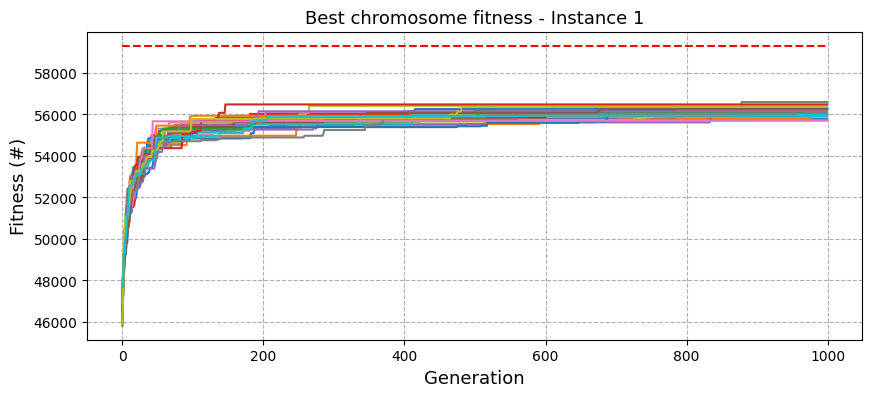
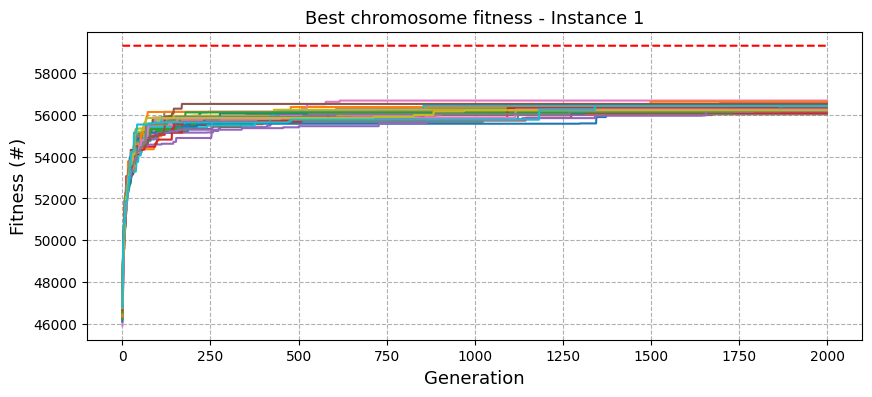
new plots and solutions

diff --git a/best_chromo_items.py b/best_chromo_items.py
@@ -1,12 +1,15 @@
 import json
 
 F = {}
-F[1] = {'id': '0010010000101110000000100010001101001000000100000010100110010000000010110001001001001000100100101000000000000000000111111000011100001100000100110010010000010000010011000010000010000100110100100100010001010000101010010100110000000001001100000000100001', 'fitness': 55691}
-F[2] = {'id': '0010010000101110000000100010001101001000000100000010100110010000000010110001001001001000100100101000000000000000000111111000011100001100000100110010010000010000010011000010000010000100110100100100010001010000101010010100110000000001001100000000100001', 'fitness': 55691}
-F[3] = {'id': '0010010000101110000000100010001101001000000100000010100110010000000010110001001001001000100100101000000000000000000111111000011100001100000100110010010000010000010011000010000010000100110100100100010001010000101010010100110000000001001100000000100001', 'fitness': 55691}
-F[4] = {'id': '0010010000101110000000100010001101001000000100000010100110010000000010110001001001001000100100101000000000000000000111111000011100001100000100110010010000010000010011000010000010000100110100100100010001010000101010010100110000000001001100000000100001', 'fitness': 55691}
-F[5] = {'id': '0010010000101110000000100010001101001000000100000010100110010000000010110001001001001000100100101000000000000000000111111000011100001100000100110010010000010000010011000010000010000100110100100100010001010000101010010100110000000001001100000000100001', 'fitness': 55691}
-F[6] = {'id': '0010010000101110000000100010001101001000000100000010100110010000000010110001001001001000100100101000000000000000000111111000011100001100000100110010010000010000010011000010000010000100110100100100010001010000101010010100110000000001001100000000100001', 'fitness': 55691}
+F[1] = {'id': '0100000100000100100101010110000000000010000000100100101010100000000011000100100000011100100000100000', 'fitness': 23898}
+F[2] = {'id': '0010100011000000101000010100010000101000110000000010000110001100010100101101001000001100011010100101010000001000000000100010000101100100100010100000010000011000011000001000100010000011000101100000010001011011001010000100000010001000001100010001000001', 'fitness': 56686}
+F[3] = {'id': '11001000100100000000100100001100000000100100010000000000000101110000001100111001110101001000000010010010001010000100010001101011100010001001000000000000100000010000000010001100011010010001000010000100110101100001110100000001000000100010011001110000000100100110001010000000000001001000010100000001000110100010000010110100000100100000100001000101100011011000010000000000000000001101111000100001011001000100000000010101010000000000010110101001011000000001000100000110000000111110111110010000001001011001', 'fitness': 115960}
+F[4] = {'id': '1111010001000011000000000000000000000000100000000001000010000010001011000000010001100010000000110010', 'fitness': 22366}
+F[5] = {'id': '0010000000011011000000110110000100000000010011001011000111000000000001100100100001000000000001100000010000100100010011000000001000000000000000001010000100001001011110000001010101010000000001000010000001000010011001000000010101010000000110000111000010', 'fitness': 56758}
+F[6] = {'id': '10100001110100100100000000100111000000110001100000010000000000000000001000000011010100100001000001001001100000000000001000010010100100001000000000001000001011110011000011000111010101000000001101010000001000000101000110001000000000011100001110011010000000000000000100000100011100101000100100000001000000000001001100001100000001110010110110000000000010001000100001000000001100000010100010000000100011011001000100010010100000000000001000000001000010000000000011000111001001010011001101000010000100110101', 'fitness': 112603}
+F[7] = {'id': '0000000000001010000000000010000000100100010101000001001100100001010101001001000000010000110000000010', 'fitness': 20602}
+F[8] = {'id': '0000010100000000000000010011101010000001000001001000010001000000000000011000110100000000000110000000001101100001110000010000001001001001000000100000000000110100100000011000100000000000011000000100010001000001000100001000101000000011010010000000000101', 'fitness': 53059}
+F[9] = {'id': '01000001000010110001001100000011101010010100011000010000000001001001010100000001000100000000000100000001000000001101000001000000011100100010001000000000010000000001100000100111000000000100000010110001000000100010111000110100001010010100001000000001011100100000010100001010100000000000000100010010000010000000100110100000000000000011000000010011000010101000000001000000000000000000010000001110000000010010111010010000100000111100011001000100010000100000101000000001100001110000100010000010000100011001', 'fitness': 107841}
 
 choices = {}
 

diff --git a/average_fitness_plot.py b/average_fitness_plot.py
@@ -6,7 +6,7 @@ plt.rcParams["figure.figsize"] = (10, 4)
 
 average_instance = []
 
-for i in range(1, 7):
+for i in range(1, 10):
     average = 0
     for j in range(0, 30):
         json_file = open("file_{}/fistness_history_test_{}.json".format(i, j))
@@ -22,10 +22,10 @@ print(average_instance)
 
 # plt.plot(average_instance)
 
-# optimal = [24381, 59312, 120130, 23064, 59187, 117726]
+# optimal = [24381, 59312, 120130, 23064, 59187, 117726, 21946, 56693, 115868]
 
-X = ['File 1', 'File 2', 'File 3', 'File 4', 'File 5', "File 6", "File 7"]
-Y_optimal = [24381, 59312, 120130, 23064, 59187, 117726, 21946]
+X = ['File 1', 'File 2', 'File 3', 'File 4', 'File 5', "File 6", "File 7", "File 8", "File 9"]
+Y_optimal = [24381, 59312, 120130, 23064, 59187, 117726, 21946, 56693, 115868]
 Y_GA = average_instance
 
 X_axis = np.arange(len(X))
@@ -35,8 +35,8 @@ plt.bar(X_axis + 0.2, Y_optimal, 0.4, label='Optimal value', color='firebrick')
 
 plt.xticks(X_axis, X)
 plt.xlabel("Instances", fontsize=13)
-plt.ylabel("Average fitness (#)", fontsize=13)
-plt.title("Best chromosomes fitness average", fontsize=13)
+plt.ylabel("Fitness (#)", fontsize=13)
+plt.title("Best individual average fitness", fontsize=13)
 plt.legend()
 plt.savefig("best_chromo_fitness_average.png", bbox_inches="tight")
 plt.show()

diff --git a/result_plots.py b/result_plots.py
@@ -1,8 +1,10 @@
 import json
 import matplotlib.pyplot as plt
 
+file = 9
+
 plt.rcParams["figure.figsize"] = (10, 4)
-for i in range(6, 7):
+for i in range(file, file+1):
     for j in range(0, 30):
         json_file = open("file_{}/fistness_history_test_{}.json".format(i, j))
 
@@ -12,13 +14,13 @@ for i in range(6, 7):
 
         plt.plot(history)
 
-# optimal = [24381, 59312, 120130, 23064, 59187, 117726, 21946]
-optimal = [117726 for i in range(0, 1000)]
+optimal_value = [24381, 59312, 120130, 23064, 59187, 117726, 21946, 56693, 115868]
+optimal = [optimal_value[file-1] for i in range(0, 500)]
 
 plt.plot(optimal, color='r', linestyle='--')
 plt.ylabel('Fitness (#)', fontsize=13)
 plt.xlabel('Generation', fontsize=13)
 plt.grid(linestyle="--")
 plt.title("Best chromosome fitness - Instance 1", fontsize=13)
-plt.savefig("fitness_x_generation_file_6.png", bbox_inches="tight")
+plt.savefig("fitness_x_generation_file_{}.png".format(file), bbox_inches="tight")
 plt.show()

diff --git a/file_1/maior_fitness.py b/file_1/maior_fitness.py
@@ -1,0 +1,13 @@
+import json
+
+maior = 0
+
+for i in range(0, 30):
+    file = open("fistness_history_test_{}.json".format(i))
+    json_obj = json.load(file)
+    history = json_obj["history"]
+    best = history[len(history)-1]
+    if best > maior:
+        maior = best
+
+    print("FILE: {} | VALUE: {}".format(i, maior))

diff --git a/file_2/maior_fitness.py b/file_2/maior_fitness.py
@@ -1,0 +1,13 @@
+import json
+
+maior = 0
+
+for i in range(0, 30):
+    file = open("fistness_history_test_{}.json".format(i))
+    json_obj = json.load(file)
+    history = json_obj["history"]
+    best = history[len(history)-1]
+    if best > maior:
+        maior = best
+
+    print("FILE: {} | VALUE: {}".format(i, maior))

diff --git a/file_3/maior_fitness.py b/file_3/maior_fitness.py
@@ -1,0 +1,13 @@
+import json
+
+maior = 0
+
+for i in range(0, 30):
+    file = open("fistness_history_test_{}.json".format(i))
+    json_obj = json.load(file)
+    history = json_obj["history"]
+    best = history[len(history)-1]
+    if best > maior:
+        maior = best
+
+    print("FILE: {} | VALUE: {}".format(i, maior))

diff --git a/file_4/maior_fitness.py b/file_4/maior_fitness.py
@@ -1,0 +1,13 @@
+import json
+
+maior = 0
+
+for i in range(0, 30):
+    file = open("fistness_history_test_{}.json".format(i))
+    json_obj = json.load(file)
+    history = json_obj["history"]
+    best = history[len(history)-1]
+    if best > maior:
+        maior = best
+
+    print("FILE: {} | VALUE: {}".format(i, maior))

diff --git a/file_5/maior_fitness.py b/file_5/maior_fitness.py
@@ -1,0 +1,13 @@
+import json
+
+maior = 0
+
+for i in range(0, 30):
+    file = open("fistness_history_test_{}.json".format(i))
+    json_obj = json.load(file)
+    history = json_obj["history"]
+    best = history[len(history)-1]
+    if best > maior:
+        maior = best
+
+    print("FILE: {} | VALUE: {}".format(i, maior))

diff --git a/file_6/maior_fitness.py b/file_6/maior_fitness.py
@@ -1,0 +1,13 @@
+import json
+
+maior = 0
+
+for i in range(0, 30):
+    file = open("fistness_history_test_{}.json".format(i))
+    json_obj = json.load(file)
+    history = json_obj["history"]
+    best = history[len(history)-1]
+    if best > maior:
+        maior = best
+
+    print("FILE: {} | VALUE: {}".format(i, maior))

diff --git a/file_7/maior_fitness.py b/file_7/maior_fitness.py
@@ -1,0 +1,13 @@
+import json
+
+maior = 0
+
+for i in range(0, 30):
+    file = open("fistness_history_test_{}.json".format(i))
+    json_obj = json.load(file)
+    history = json_obj["history"]
+    best = history[len(history)-1]
+    if best > maior:
+        maior = best
+
+    print("FILE: {} | VALUE: {}".format(i, maior))

diff --git a/file_8/maior_fitness.py b/file_8/maior_fitness.py
@@ -1,0 +1,13 @@
+import json
+
+maior = 0
+
+for i in range(0, 30):
+    file = open("fistness_history_test_{}.json".format(i))
+    json_obj = json.load(file)
+    history = json_obj["history"]
+    best = history[len(history)-1]
+    if best > maior:
+        maior = best
+
+    print("FILE: {} | VALUE: {}".format(i, maior))

diff --git a/file_9/maior_fitness.py b/file_9/maior_fitness.py
@@ -1,0 +1,13 @@
+import json
+
+maior = 0
+
+for i in range(0, 30):
+    file = open("fistness_history_test_{}.json".format(i))
+    json_obj = json.load(file)
+    history = json_obj["history"]
+    best = history[len(history)-1]
+    if best > maior:
+        maior = best
+
+    print("FILE: {} | VALUE: {}".format(i, maior))
